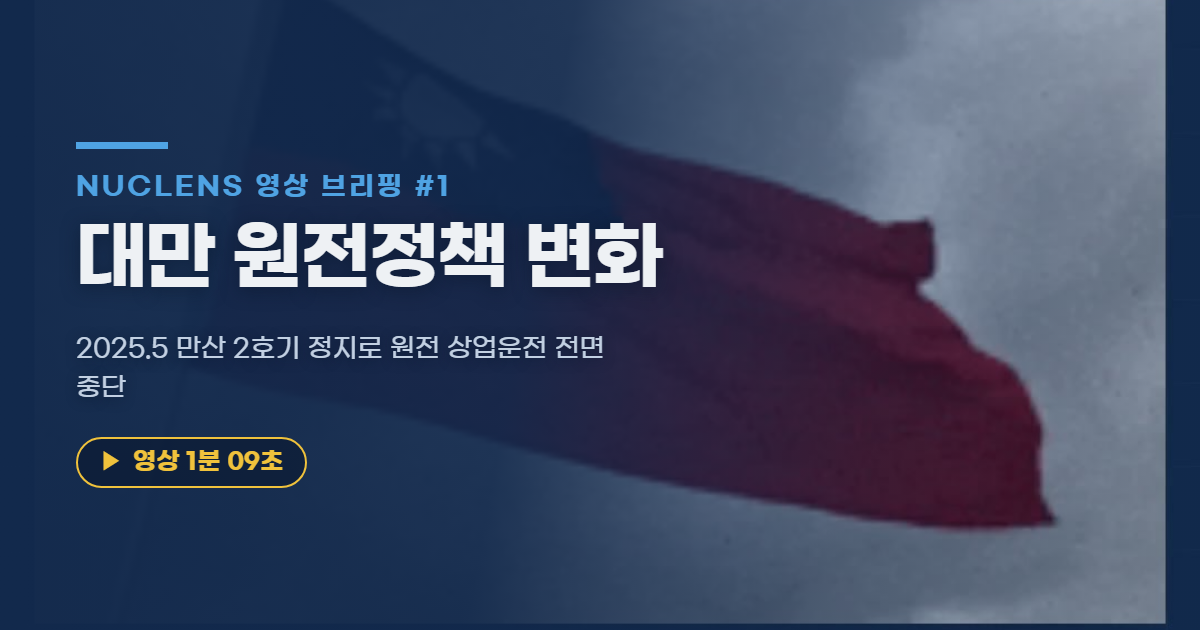
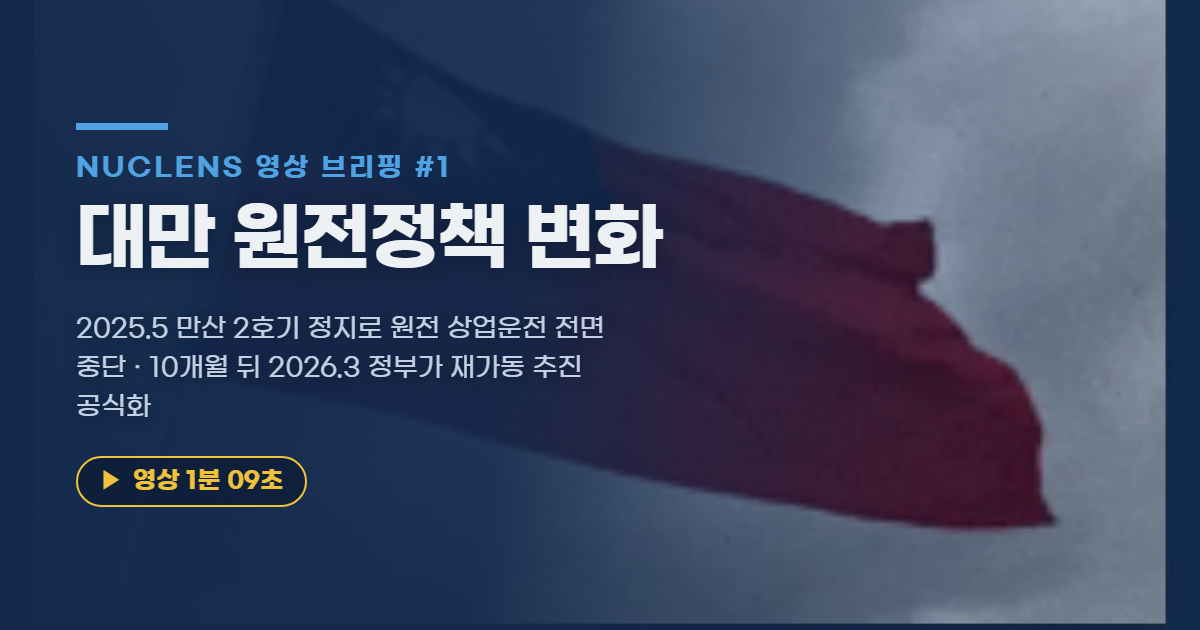
공유: 본문에서 설명을 빼고 카드가 말하게 한다
지니 2026-09-21 "공유할때 나오는 문구를 수정하고 싶은데 쓸데없는 거는 빼고".

navigator.share 에 text 를 넘기고 있었는데 그 문장이 og:description 과
같아서, 카톡에 붙이면 메시지 본문과 미리보기 카드가 같은 말을 두 번 했다.
text 를 빼고 제목·주소만 넘긴다 — 나머지는 카드가 맡는다.

  전  대만 원전정책 변화 / 2025.5 만산 2호기 정지로… / URL  (+ 카드에 또)
  후  대만 원전정책 변화 · NUCLENS 영상 브리핑 #1 / URL

카드 설명은 첫 항목 하나에서 앞 두 항목으로 늘렸다. 한 줄로는 "무엇이
어떻게 됐나"가 안 서고, 카톡이 자르는 80자 안에 두 항목이 들어간다.
제목 태그들에도 편 번호를 붙였다 — 받은 사람이 시리즈물인 걸 알아야 한다.

Changed region(s): [[0.0617, 0.181, 0.555, 0.6635], [0.0617, 0.6937, 0.2775, 0.8143]]

diff --git a/web/public/shorts/taiwan/index.html b/web/public/shorts/taiwan/index.html
@@ -3,15 +3,15 @@
 <head>
 <meta charset="utf-8">
 <meta name="viewport" content="width=device-width, initial-scale=1">
-<title>대만 원전정책 변화 · NUCLENS 영상 브리핑</title>
-<meta name="description" content="2025.5 만산 2호기 정지로 원전 상업운전 전면 중단">
+<title>대만 원전정책 변화 · NUCLENS 영상 브리핑 #1</title>
+<meta name="description" content="2025.5 만산 2호기 정지로 원전 상업운전 전면 중단 · 10개월 뒤 2026.3 정부가 재가동 추진 공식화">
 <link rel="canonical" href="https://nuclens.pages.dev/shorts/taiwan/">
 
 <meta property="og:type" content="video.other">
 <meta property="og:site_name" content="Nuclens">
 <meta property="og:locale" content="ko_KR">
-<meta property="og:title" content="대만 원전정책 변화 · NUCLENS 영상 브리핑">
-<meta property="og:description" content="2025.5 만산 2호기 정지로 원전 상업운전 전면 중단">
+<meta property="og:title" content="대만 원전정책 변화 · NUCLENS 영상 브리핑 #1">
+<meta property="og:description" content="2025.5 만산 2호기 정지로 원전 상업운전 전면 중단 · 10개월 뒤 2026.3 정부가 재가동 추진 공식화">
 <meta property="og:url" content="https://nuclens.pages.dev/shorts/taiwan/">
 <meta property="og:image" content="https://nuclens.pages.dev/shorts/2026-09-21-taiwan-og.png">
 <meta property="og:image:width" content="1200">
@@ -22,8 +22,8 @@
 <meta property="og:video:width" content="1080">
 <meta property="og:video:height" content="1920">
 <meta name="twitter:card" content="summary_large_image">
-<meta name="twitter:title" content="대만 원전정책 변화 · NUCLENS 영상 브리핑">
-<meta name="twitter:description" content="2025.5 만산 2호기 정지로 원전 상업운전 전면 중단">
+<meta name="twitter:title" content="대만 원전정책 변화 · NUCLENS 영상 브리핑 #1">
+<meta name="twitter:description" content="2025.5 만산 2호기 정지로 원전 상업운전 전면 중단 · 10개월 뒤 2026.3 정부가 재가동 추진 공식화">
 <meta name="twitter:image" content="https://nuclens.pages.dev/shorts/2026-09-21-taiwan-og.png">
 
 <link rel="icon" href="/favicon.svg">
@@ -151,7 +151,9 @@ h1{font-size:32px;font-weight:800;letter-spacing:-.03em;line-height:1.28;margin-
   // 공유 시트가 있으면 그걸 쓰고(폰), 없으면 클립보드로 떨어진다(PC).
   document.getElementById("copy").addEventListener("click", async function () {
     var url = location.href;
-    var data = { title: "대만 원전정책 변화", text: "2025.5 만산 2호기 정지로 원전 상업운전 전면 중단", url: url };
+    // text 를 넣으면 메시지 본문과 미리보기 카드가 같은 문장을 두 번 말한다.
+    // 제목과 주소만 넘기고 나머지는 카드가 맡는다(지니 2026-09-21 "쓸데없는 거는 빼고").
+    var data = { title: "대만 원전정책 변화 · NUCLENS 영상 브리핑 #1", url: url };
     try {
       if (navigator.share && navigator.canShare && navigator.canShare(data)) {
         await navigator.share(data);
